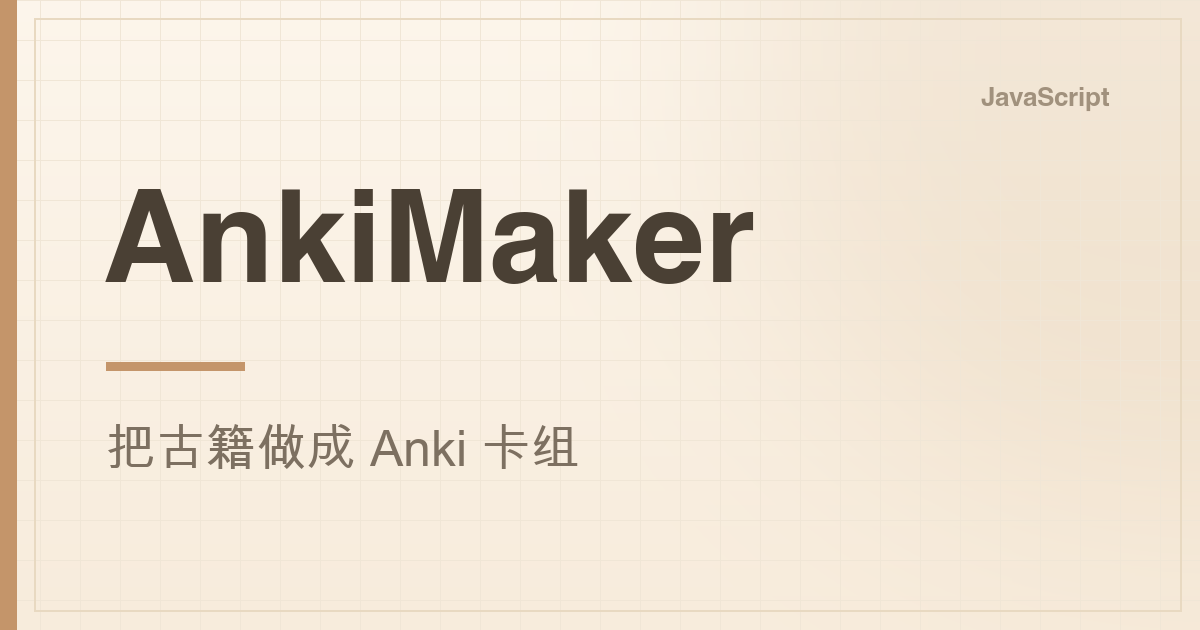
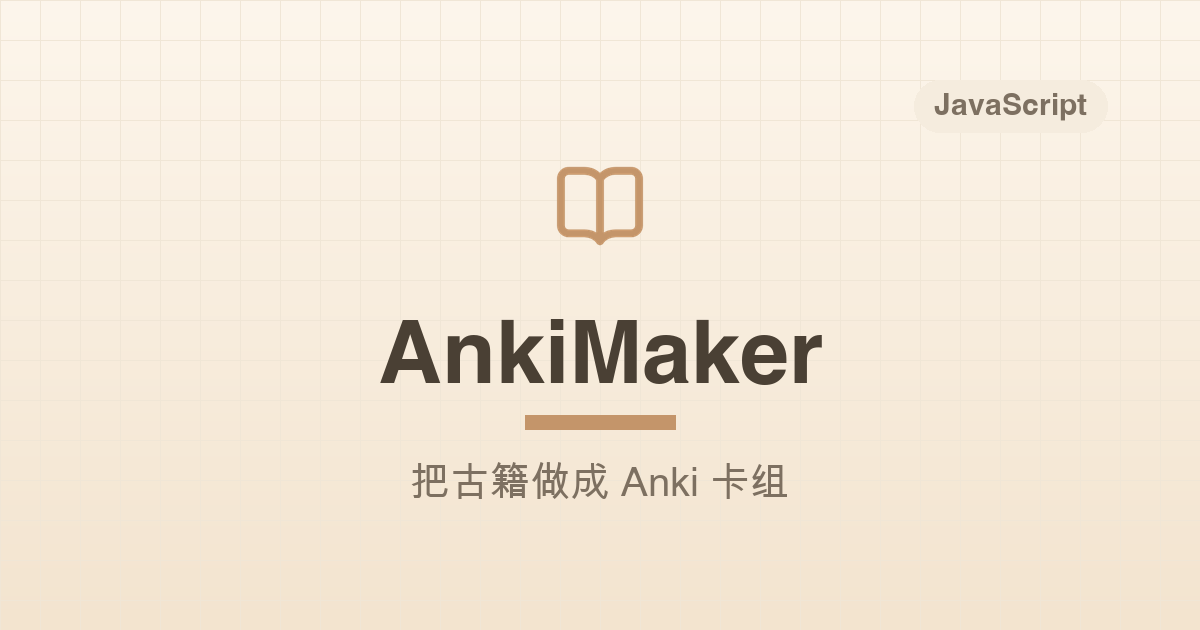
projects: 项目卡改透明底统一线性图标并整组垂直居中

diff --git a/docs/DESIGN.md b/docs/DESIGN.md
@@ -100,21 +100,23 @@ excerpt: 列表页摘要（1~2 句）
 #### 项目卡
 
 `/projects` 的缩略框是 **200×105**，竖版界面截图会被 `object-fit: cover` 裁得看不清，
-所以缩略图不用真实截图，改成脚本生成的 1200×630 暖调项目卡：
+所以缩略图不用真实截图，改成脚本生成的 1200×630 暖调项目卡：奶油渐变底 + 细网格，
+上方一枚**透明底 Lucide 线性图标**，下方居中项目名 / 暖橙短横线 / 一句话副标题，
+右上角弱化语言胶囊；整组垂直居中。完整规范见 `writing/images/product-cover/design.md`。
 
 ```bash
 cd /Users/kingsir/Documents/kingsir.work/repositories/isnotry.github.io
-# 1) 在 tools/make-project-cards.py 顶部的 CARDS 列表里加一项
-#    （name / lang / subtitle / footer，只取一句话，卡片放不下整段 desc）
-python tools/make-project-cards.py --only <Name> --preview /tmp/pv   # 生成 + 小尺寸预览
+# 1) 在 tools/make-project-cards.py 的 CARDS 里加 name / lang / subtitle（只取一句话）
+# 2) 透明图标放 assets/img/projects/icons/<小写名>.png（Lucide 渲染的透明单色 PNG）
+python tools/make-project-cards.py                 # 生成全部
+python tools/make-project-cards.py --only <Name>   # 只重做某一个
 ```
 
-- 输出到 `assets/img/projects/<小写名>.png`，**跟站点一起推**，不经图床
+- 输出到 `assets/img/projects/<小写名>.png`，**跟站点一起推**，不经图床；母版 PNG 另归档到 `writing/images/product-cover/`
 - `shot` 填 `https://kingsir.work/assets/img/projects/<小写名>.png`，
   `shot_alt` 填 `<Name> 项目卡：<副标题>`
-- 配色遵循 `writing/images/post-cover/design.md`，但标题要**深两档**（`#4a4034`）——
-  缩到 200px 宽只有 14px 高，浅色会糊掉
-- 左侧那条 16px 暖橙「书脊」是小尺寸下唯一认得出的锚点，别删
+- 标题用深两档暖棕 `#4a4034`——缩到 200px 宽只有 14px 高，浅色会糊掉
+- 图标必须透明底、统一 Lucide 线性（2px、圆角、空心），不要白色底块、不要手绘乱线
 
 首页渲染时固定按 `date` **从新到旧**：`{% assign projects = site.data.projects | sort: "date" | reverse %}` —— 新增项目时不用管写在 yml 的哪个位置。
 
